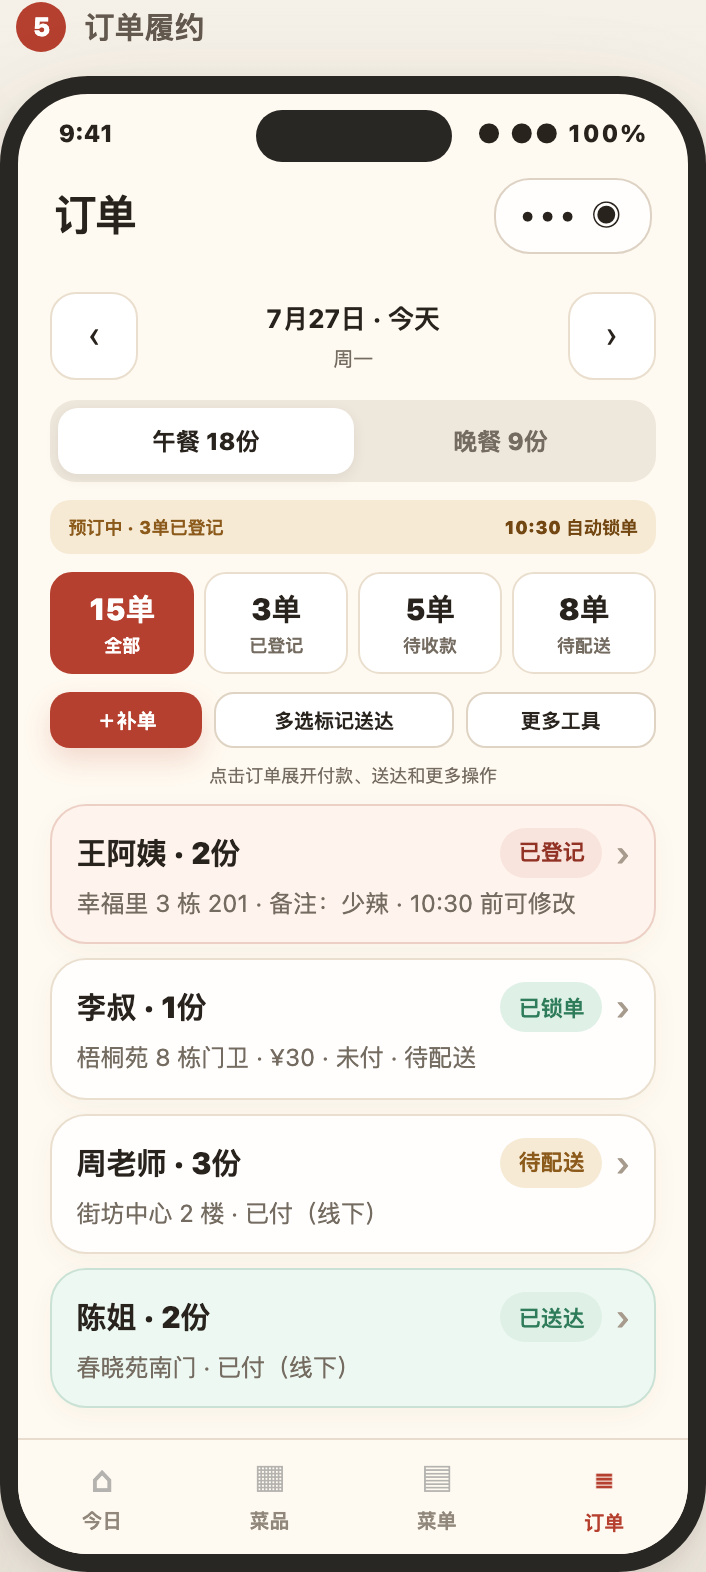
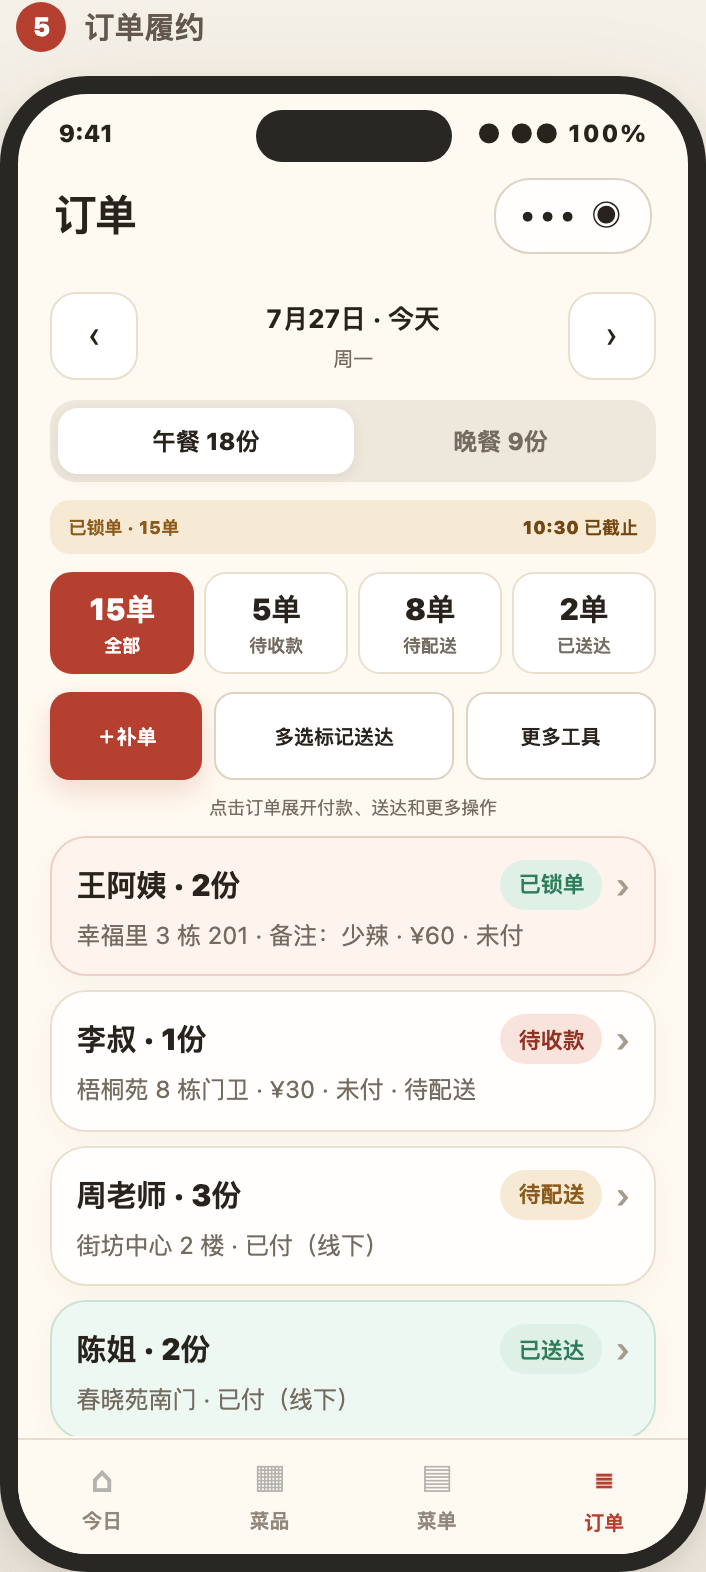
docs(kith-inn-v1): align hifi order lifecycle

diff --git a/docs/kith-inn-v1/design/kith-inn-v1-hifi-v1.html b/docs/kith-inn-v1/design/kith-inn-v1-hifi-v1.html
@@ -50,6 +50,8 @@
     .content { height: calc(100% - 148px); overflow: hidden; padding: 10px 16px 18px; }
     .content.offerings-content { overflow-y: auto; padding-bottom: 92px; scrollbar-width: none; }
     .content.offerings-content::-webkit-scrollbar { display: none; }
+    .content.orders-content { overflow-y: auto; scrollbar-width: none; }
+    .content.orders-content::-webkit-scrollbar { display: none; }
     .content.no-tabs { height: calc(100% - 96px); }
     .title-row { display: flex; justify-content: space-between; align-items: flex-start; margin-bottom: 15px; }
     h3 { margin: 0; font-size: 27px; line-height: 1.14; letter-spacing: -.04em; }
@@ -119,7 +121,7 @@
     .order-lock-note { display: flex; align-items: center; justify-content: space-between; gap: 8px; margin: -3px 0 9px; padding: 7px 9px; border-radius: 10px; color: #8c5b1c; background: var(--gold-soft); font-size: 9px; font-weight: 800; }
     .order-lock-note b { color: #734712; font-size: 9px; }
     .order-tools { display: grid; grid-template-columns: .8fr 1.25fr 1fr; gap: 6px; margin: -2px 0 8px; }
-    .order-tools .button { min-height: 28px; padding: 5px 8px; font-size: 10px; }
+    .order-tools .button { min-height: 44px; padding: 7px 8px; font-size: 10px; }
     .order-hint { margin: -1px 2px 8px; color: var(--muted); font-size: 9px; text-align: center; }
     .order-row { padding: 11px 12px; margin-bottom: 7px; }
     .order-row .card-title { margin-bottom: 4px; font-size: 15px; }
@@ -243,19 +245,18 @@
               <div style="height:16px"></div>
               <div class="share-card">
                 <div class="card-title"><span>桃子家常菜</span><span>🍑</span></div>
-                <div style="font-size:20px;font-weight:900;margin:12px 0 5px">本周午晚餐预订</div>
-                <div class="meta">7月27日－31日 · 共 6 个餐次</div>
-                <div class="row"><span>¥30 / 份起</span><span>点击选择餐次 →</span></div>
+                <div style="font-size:20px;font-weight:900;margin:12px 0 5px">7月27日午晚餐预订</div>
+                <div class="meta">周一 · 午餐、晚餐</div>
+                <div class="row"><span>¥30 / 份起</span><span>点击查看当天菜单 →</span></div>
               </div>
               <div class="card" style="margin-top:14px">
-                <div class="card-title"><span>已选择的餐次</span><span class="chip green">6 个</span></div>
-                <div class="summary-row"><span>周一午餐</span><b>10:30 截止</b></div>
-                <div class="summary-row"><span>周一晚餐</span><b>16:00 截止</b></div>
-                <div class="summary-row"><span>周二午餐等</span><b>还有 4 个</b></div>
+                <div class="card-title"><span>选择分享目标</span><span class="chip green">这一天</span></div>
+                <div class="segment"><span class="active">这一天</span><span>这一餐</span></div>
+                <div class="summary-row"><span>7月27日 · 周一</span><b>午餐、晚餐</b></div>
+                <div class="policy">也可切换“这一餐”；顾客点开卡片后会直接定位到对应日期或餐次。</div>
               </div>
-              <div class="button wechat" style="margin-top:16px">分享给街坊</div>
-              <div class="button secondary" style="margin-top:8px">复制入口</div>
-              <div class="policy center">分享入口只包含公开批次标识，不包含商家或顾客身份信息</div>
+              <div class="button wechat" style="margin-top:16px">分享这一天</div>
+              <div class="policy center">分享小程序卡片只包含公开批次标识，不包含商家或顾客身份信息</div>
             </div>
           </div>
         </article>
@@ -268,16 +269,16 @@
             <div class="content orders-content">
               <div class="order-date"><button aria-label="前一天">‹</button><div><b>7月27日 · 今天</b><span>周一</span></div><button aria-label="后一天">›</button></div>
               <div class="segment"><span class="active">午餐 18份</span><span>晚餐 9份</span></div>
-              <div class="order-lock-note"><span>预订中 · 3单已登记</span><b>10:30 自动锁单</b></div>
-              <div class="order-filters"><div class="order-filter active"><b>15单</b>全部</div><div class="order-filter"><b>3单</b>已登记</div><div class="order-filter"><b>5单</b>待收款</div><div class="order-filter"><b>8单</b>待配送</div></div>
+              <div class="order-lock-note"><span>已锁单 · 15单</span><b>10:30 已截止</b></div>
+              <div class="order-filters"><div class="order-filter active"><b>15单</b>全部</div><div class="order-filter"><b>5单</b>待收款</div><div class="order-filter"><b>8单</b>待配送</div><div class="order-filter"><b>2单</b>已送达</div></div>
               <div class="order-tools"><div class="button small">＋补单</div><div class="button secondary small">多选标记送达</div><div class="button secondary small" aria-label="更多工具，含复制订单清单">更多工具</div></div>
               <div class="order-hint">点击订单展开付款、送达和更多操作</div>
               <div class="card warm order-row">
-                <div class="card-title"><span>王阿姨 · 2份</span><span class="order-row-status"><span class="chip red">已登记</span><span class="order-chevron">›</span></span></div>
-                <div class="meta">幸福里 3 栋 201 · 备注：少辣 · 10:30 前可修改</div>
+                <div class="card-title"><span>王阿姨 · 2份</span><span class="order-row-status"><span class="chip green">已锁单</span><span class="order-chevron">›</span></span></div>
+                <div class="meta">幸福里 3 栋 201 · 备注：少辣 · ¥60 · 未付</div>
               </div>
               <div class="card order-row">
-                <div class="card-title"><span>李叔 · 1份</span><span class="order-row-status"><span class="chip green">已锁单</span><span class="order-chevron">›</span></span></div>
+                <div class="card-title"><span>李叔 · 1份</span><span class="order-row-status"><span class="chip red">待收款</span><span class="order-chevron">›</span></span></div>
                 <div class="meta">梧桐苑 8 栋门卫 · ¥30 · 未付 · 待配送</div>
               </div>
               <div class="card order-row">
@@ -296,7 +297,7 @@
     </section>
 
     <section>
-      <div class="flow-head"><h2>顾客端主线</h2><div class="line"></div><div class="summary">点微信群卡片 → 选择餐次与资料 → 确认登记 → 查看/修改订单</div></div>
+      <div class="flow-head"><h2>顾客端主线</h2><div class="line"></div><div class="summary">点微信群卡片 → 定位分享日期/餐次 → 确认登记 → 查看/修改订单</div></div>
       <div class="screen-grid customer">
         <article class="screen-wrap">
           <div class="step"><b>6</b> 分享卡片落地页</div>
@@ -305,7 +306,7 @@
             <div class="topbar"><div class="brand">街坊味</div><div class="mini-menu">••• ◉</div></div>
             <div class="content no-tabs">
               <div class="quiet-banner">✓ 微信已识别 · 无需注册</div>
-              <div class="hero-meal"><div class="sub">桃子家常菜</div><div style="font-size:25px;font-weight:900;margin:7px 0">本周午晚餐预订</div><div class="sub">7月27日－31日 · 按需选择餐次</div></div>
+              <div class="hero-meal"><div class="sub">桃子家常菜</div><div style="font-size:25px;font-weight:900;margin:7px 0">7月27日午晚餐预订</div><div class="sub">周一 · 按需选择午餐或晚餐</div></div>
               <div class="card">
                 <div class="card-title"><div class="meal-title"><span class="meal-icon">☀</span><span>周一午餐</span></div><span class="chip green">可预订</span></div>
                 <div class="dish-list">红烧肉 · 香菇滑鸡 · 清炒时蔬<br>蒜蓉茄子 · 番茄蛋汤</div>
@@ -338,10 +339,10 @@
               <div class="card">
                 <div class="card-title"><span>本次预订</span><span class="text-link">返回修改</span></div>
                 <div class="summary-row"><span>周一午餐 × 1</span><b>¥30</b></div>
-                <div class="summary-row"><span>周二晚餐 × 2</span><b>¥60</b></div>
+                <div class="summary-row"><span>周一晚餐 × 2</span><b>¥60</b></div>
                 <div class="summary-row"><span class="strong">合计 3 份</span><b style="color:var(--red)">¥90</b></div>
               </div>
-              <div class="notice">提交后，餐次未截止、未关闭且桃子确认前仍可修改或取消</div>
+              <div class="notice">提交后，餐次截止或商家提前停止预订前仍可修改或取消；截止后订单统一锁定</div>
               <div class="button">确认登记</div>
               <div class="policy">本小程序不收取在线付款；付款由你与桃子线下完成。称呼和地址可在“我的订单”中停用。</div>
             </div>
@@ -356,15 +357,15 @@
             <div class="content no-tabs">
               <div class="quiet-banner">桃子家常菜 · 仅显示你的订单</div>
               <div class="card warm">
-                <div class="card-title"><span>周一午餐 · 1份</span><span class="chip red">待桃子确认</span></div>
+                <div class="card-title"><span>周一午餐 · 1份</span><span class="chip red">已登记</span></div>
                 <div class="meta">王阿姨 · 幸福里 3 栋 201 · ¥30</div>
-                <div class="order-timeline"><span class="dot done"></span><div class="timeline-text"><b>登记成功</b><div class="meta">今天 09:43</div></div><span class="dot"></span><div class="timeline-text"><b>等待商家确认</b><div class="meta">餐次未截止、未关闭且确认前可以修改或取消</div></div></div>
+                <div class="order-timeline"><span class="dot done"></span><div class="timeline-text"><b>登记成功</b><div class="meta">今天 09:43</div></div><span class="dot"></span><div class="timeline-text"><b>等待餐次锁单</b><div class="meta">10:30 截止或商家提前停止预订前可修改或取消</div></div></div>
                 <div class="button-row"><div class="button secondary small">修改订单</div><div class="button secondary small">取消订单</div></div>
               </div>
               <div class="card green">
-                <div class="card-title"><span>周二晚餐 · 2份</span><span class="chip green">已确认</span></div>
+                <div class="card-title"><span>周二晚餐 · 2份</span><span class="chip green">已锁单</span></div>
                 <div class="meta">王阿姨 · 幸福里 3 栋 201 · ¥60</div>
-                <div class="order-timeline"><span class="dot done"></span><div class="timeline-text"><b>桃子已确认</b><div class="meta">订单已锁定，不能再修改</div></div><span class="dot"></span><div class="timeline-text"><b>等待送达</b><div class="meta">付款线下完成</div></div></div>
+                <div class="order-timeline"><span class="dot done"></span><div class="timeline-text"><b>餐次已截止</b><div class="meta">订单已锁定，不能再修改</div></div><span class="dot"></span><div class="timeline-text"><b>等待送达</b><div class="meta">付款线下完成</div></div></div>
               </div>
               <div class="button secondary">停用我的送餐资料</div>
               <div class="policy center">历史订单会保留，停用后不再用于新的预订</div>
